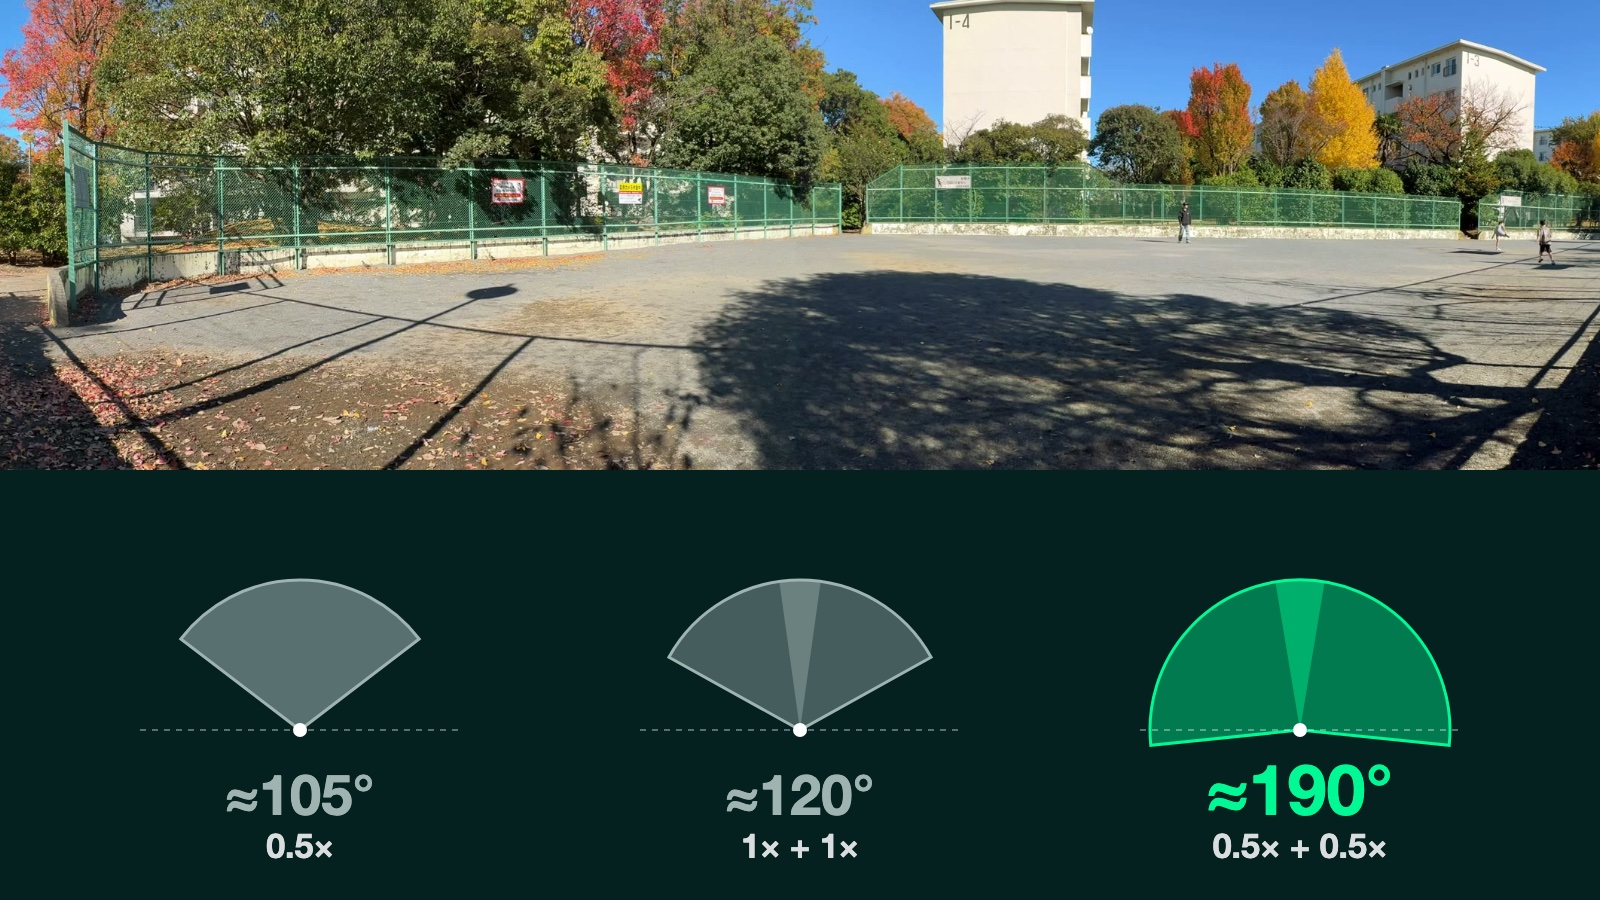
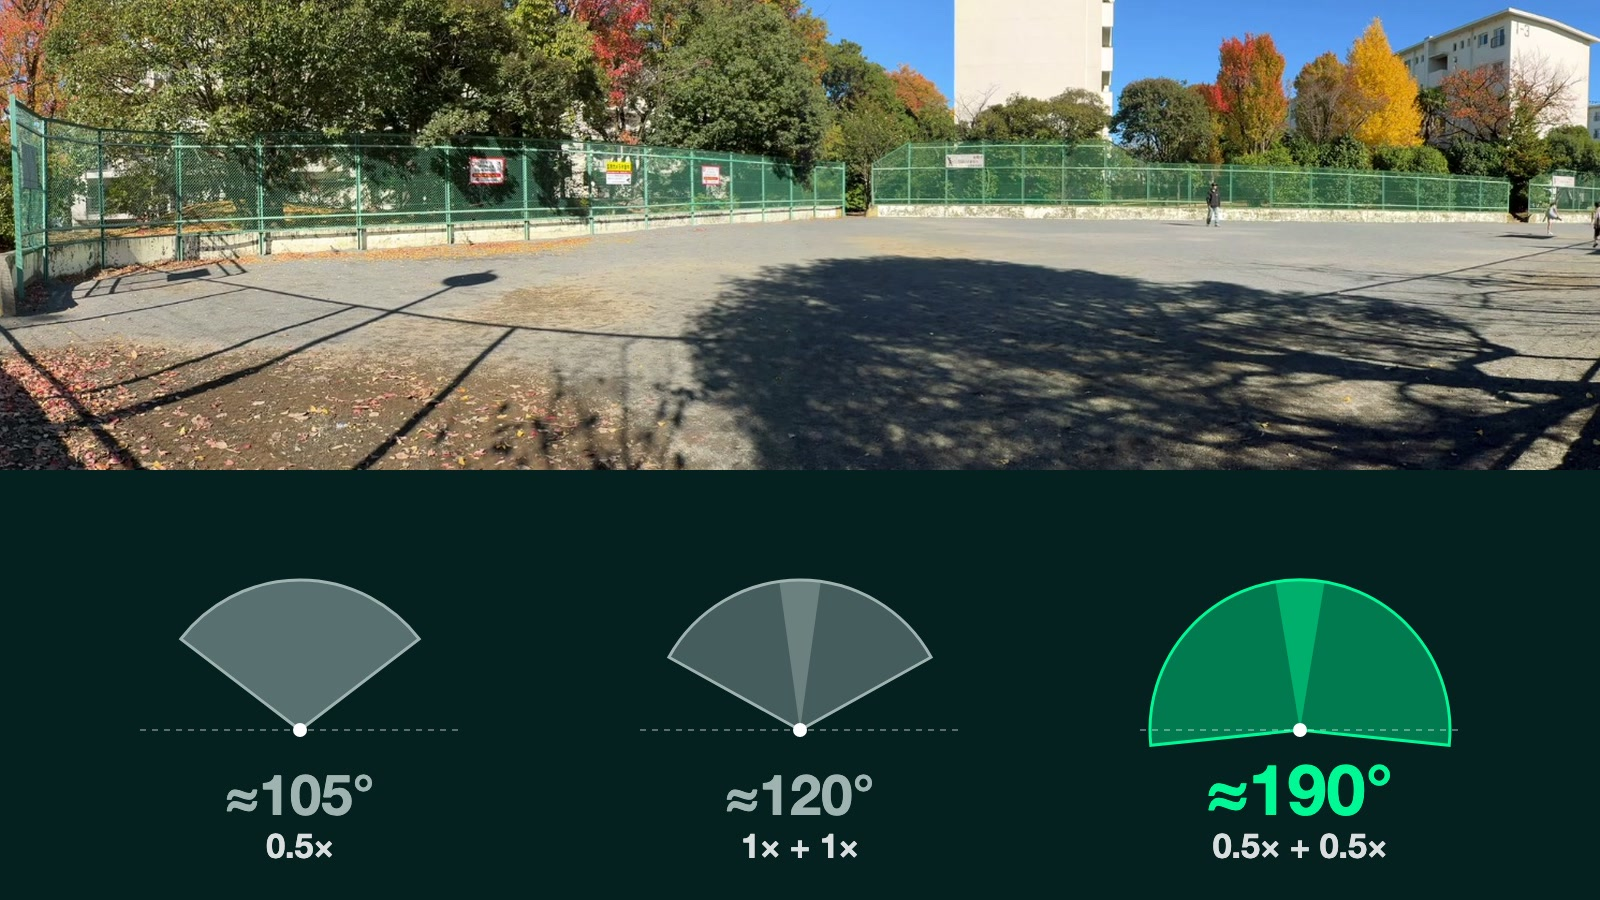
190度の写真: 建物の番号「1-4」が入らないよう上を切る（元の動画の1コマから切り直し、画質は同じ）。説明に「ページ用に縮小」を4言語で
Claude-Session: https://claude.ai/code/session_012nFP3W84HjxJBu1GEZk1Jt

diff --git a/es/blog/ultrawide-190/index.html b/es/blog/ultrawide-190/index.html
@@ -166,7 +166,7 @@ a{color:var(--green)}
   <figure class="hero-img"><img src="/img/ultrawide-190-card.jpg" alt="Una escena de un video panorámico de cerca de 190° grabado con dos iPhone en ultra gran angular, y la comparación entre 105°, 120° y 190°"></figure>
   <div class="prose">
 <p>panovi ahora puede <strong>convertir cerca de 190° en un solo video panorámico con dos iPhone en ultra gran angular</strong>. Mirando al frente, todo desde tu costado derecho hasta tu costado izquierdo — y un poco detrás de ambos — entra en un solo video. El ultra gran angular de un iPhone cubre cerca de 105°, así que es casi el doble de ancho.</p>
-<figure><img src="/img/ultrawide-190.jpg" alt="Una escena de cerca de 190° grabada con dos iPhone en ultra gran angular. En los bordes izquierdo y derecho se ve la reja un poco detrás de los costados de la cámara" loading="lazy"><figcaption>Cerca de 190° con dos iPhone en ultra gran angular. Los bordes izquierdo y derecho quedan un poco detrás de los costados de la cámara (una escena del video guardado)</figcaption></figure>
+<figure><img src="/img/ultrawide-190.jpg" alt="Una escena de cerca de 190° grabada con dos iPhone en ultra gran angular. En los bordes izquierdo y derecho se ve la reja un poco detrás de los costados de la cámara" loading="lazy"><figcaption>Cerca de 190° con dos iPhone en ultra gran angular. Los bordes izquierdo y derecho quedan un poco detrás de los costados de la cámara (una escena del video guardado, reducida para esta página)</figcaption></figure>
 <h2 id="qué-tan-ancho-es">¿Qué tan ancho es?</h2>
 <p>Comparamos cuánto graba cada configuración. Los números se midieron en videos que grabamos y guardamos en nuestras pruebas. Cambian un poco según cómo coloques los iPhone.</p>
 <div class="tbl"><table><thead><tr><th>Configuración</th><th>Ancho horizontal</th></tr></thead><tbody><tr><td>Un iPhone, ultra gran angular (0.5×)</td><td>Cerca de 105°</td></tr><tr><td>Dos iPhone, gran angular (1×)</td><td>Cerca de 120°</td></tr><tr><td>Dos iPhone, ultra gran angular (0.5×)</td><td><strong>Cerca de 190°</strong></td></tr></tbody></table></div>

diff --git a/pt/blog/ultrawide-190/index.html b/pt/blog/ultrawide-190/index.html
@@ -166,7 +166,7 @@ a{color:var(--green)}
   <figure class="hero-img"><img src="/img/ultrawide-190-card.jpg" alt="Uma cena de um vídeo panorâmico de cerca de 190° gravado com dois iPhones na ultra-angular, e a comparação entre 105°, 120° e 190°"></figure>
   <div class="prose">
 <p>O panovi agora consegue <strong>transformar cerca de 190° em um só vídeo panorâmico com dois iPhones na ultra-angular</strong>. Olhando para a frente, tudo do seu lado direito ao seu lado esquerdo — e um pouco atrás dos dois — entra em um só vídeo. A ultra-angular de um iPhone cobre cerca de 105°, então é quase o dobro da largura.</p>
-<figure><img src="/img/ultrawide-190.jpg" alt="Uma cena de cerca de 190° gravada com dois iPhones na ultra-angular. Nas bordas esquerda e direita aparece a grade um pouco atrás dos lados da câmera" loading="lazy"><figcaption>Cerca de 190° com dois iPhones na ultra-angular. As bordas esquerda e direita ficam um pouco atrás dos lados da câmera (uma cena do vídeo salvo)</figcaption></figure>
+<figure><img src="/img/ultrawide-190.jpg" alt="Uma cena de cerca de 190° gravada com dois iPhones na ultra-angular. Nas bordas esquerda e direita aparece a grade um pouco atrás dos lados da câmera" loading="lazy"><figcaption>Cerca de 190° com dois iPhones na ultra-angular. As bordas esquerda e direita ficam um pouco atrás dos lados da câmera (uma cena do vídeo salvo, reduzida para esta página)</figcaption></figure>
 <h2 id="quão-largo-é">Quão largo é?</h2>
 <p>Comparamos o quanto cada configuração grava. Os números foram medidos em vídeos que gravamos e salvamos nos nossos testes. Mudam um pouco conforme a posição dos iPhones.</p>
 <div class="tbl"><table><thead><tr><th>Configuração</th><th>Largura horizontal</th></tr></thead><tbody><tr><td>Um iPhone, ultra-angular (0.5×)</td><td>Cerca de 105°</td></tr><tr><td>Dois iPhones, grande-angular (1×)</td><td>Cerca de 120°</td></tr><tr><td>Dois iPhones, ultra-angular (0.5×)</td><td><strong>Cerca de 190°</strong></td></tr></tbody></table></div>

diff --git a/blog/ultrawide-190/index.html b/blog/ultrawide-190/index.html
@@ -166,7 +166,7 @@ a{color:var(--green)}
   <figure class="hero-img"><img src="/img/ultrawide-190-card.jpg" alt="超広角のiPhone 2台で撮った約190度のパノラマ動画の一場面と、105度・120度・190度の写る広さの比べ"></figure>
   <div class="prose">
 <p>panovi で、<strong>超広角のiPhone 2台を使うと、約190度を1本のパノラマ動画に</strong>できるようになりました。正面を向いたまま、自分の右の真横から左の真横、さらに少し後ろまでが、1本の動画に入ります。iPhone 1台の超広角で写るのは約105度なので、およそ2倍近い広さです。</p>
-<figure><img src="/img/ultrawide-190.jpg" alt="超広角のiPhone 2台で撮った約190度の一場面。左右の端には、自分の真横より少し後ろのフェンスまで写っている" loading="lazy"><figcaption>超広角2台で撮った約190度。左右の端は、自分の真横より少し後ろです（保存した動画の一場面）</figcaption></figure>
+<figure><img src="/img/ultrawide-190.jpg" alt="超広角のiPhone 2台で撮った約190度の一場面。左右の端には、自分の真横より少し後ろのフェンスまで写っている" loading="lazy"><figcaption>超広角2台で撮った約190度。左右の端は、自分の真横より少し後ろです（保存した動画の一場面。ページ用に縮小しています）</figcaption></figure>
 <h2 id="どれくらい広い">どれくらい広い？</h2>
 <p>写る広さを、レンズと台数で比べました。数字は、私たちが試し撮りして保存した動画で測った値です。置き方で少し変わります。</p>
 <div class="tbl"><table><thead><tr><th>撮り方</th><th>横に写る広さ</th></tr></thead><tbody><tr><td>iPhone 1台・超広角（0.5×）</td><td>約105度</td></tr><tr><td>iPhone 2台・広角（1×）</td><td>約120度</td></tr><tr><td>iPhone 2台・超広角（0.5×）</td><td><strong>約190度</strong></td></tr></tbody></table></div>

diff --git a/en/blog/ultrawide-190/index.html b/en/blog/ultrawide-190/index.html
@@ -166,7 +166,7 @@ a{color:var(--green)}
   <figure class="hero-img"><img src="/img/ultrawide-190-card.jpg" alt="A frame from a 190° panoramic video shot with two iPhones set to Ultra Wide, and a comparison of 105°, 120° and 190° coverage"></figure>
   <div class="prose">
 <p>panovi can now <strong>turn about 190° into one panoramic video with two iPhones set to Ultra Wide</strong>. While facing forward, everything from your right side to your left side — and a little behind both — goes into one video. One iPhone&#x27;s Ultra Wide camera covers about 105°, so this is close to twice as wide.</p>
-<figure><img src="/img/ultrawide-190.jpg" alt="A frame of about 190° shot with two iPhones set to Ultra Wide. At the left and right edges you can see the fence a little behind the camera&#x27;s sides" loading="lazy"><figcaption>About 190° with two iPhones on Ultra Wide. The left and right edges are a little behind the camera&#x27;s sides (a frame from the saved video)</figcaption></figure>
+<figure><img src="/img/ultrawide-190.jpg" alt="A frame of about 190° shot with two iPhones set to Ultra Wide. At the left and right edges you can see the fence a little behind the camera&#x27;s sides" loading="lazy"><figcaption>About 190° with two iPhones on Ultra Wide. The left and right edges are a little behind the camera&#x27;s sides (a frame from the saved video, scaled down for this page)</figcaption></figure>
 <h2 id="how-wide-is-it">How wide is it?</h2>
 <p>We compared how much each setup captures. The numbers were measured on videos we shot and saved in our tests. They change a little depending on how you set the iPhones up.</p>
 <div class="tbl"><table><thead><tr><th>Setup</th><th>Horizontal coverage</th></tr></thead><tbody><tr><td>One iPhone, Ultra Wide (0.5×)</td><td>About 105°</td></tr><tr><td>Two iPhones, Wide (1×)</td><td>About 120°</td></tr><tr><td>Two iPhones, Ultra Wide (0.5×)</td><td><strong>About 190°</strong></td></tr></tbody></table></div>

diff --git a/es/index.html b/es/index.html
@@ -333,7 +333,7 @@ h2 em{font-style:normal;color:var(--green)}
   <img src="/img/ultrawide-190.jpg" alt="Una escena de cerca de 190° grabada con dos iPhone en ultra gran angular. En los bordes se ve la reja detrás de los costados de la cámara" loading="lazy">
   <div class="band-over"><div class="col">
     <h3>Cerca de 190° con dos en ultra gran angular</h3>
-    <p>Una escena del video guardado. Los bordes izquierdo y derecho quedan un poco detrás de los costados de la cámara.</p>
+    <p>Una escena del video guardado (reducida para esta página). Los bordes izquierdo y derecho quedan un poco detrás de los costados de la cámara.</p>
   </div></div>
 </div>
 

diff --git a/index.html b/index.html
@@ -348,7 +348,7 @@ h2 em{font-style:normal;color:var(--green)}
   <img src="/img/ultrawide-190.jpg" alt="超広角のiPhone 2台で撮った約190度の一場面。左右の端にはカメラの真横より後ろのフェンスまで写っている" loading="lazy">
   <div class="band-over"><div class="col">
     <h3>超広角2台で、約190度</h3>
-    <p>保存した動画の一場面です。左右の端は、カメラの真横より少し後ろです。</p>
+    <p>保存した動画の一場面です（ページ用に縮小しています）。左右の端は、カメラの真横より少し後ろです。</p>
   </div></div>
 </div>
 

diff --git a/pt/index.html b/pt/index.html
@@ -333,7 +333,7 @@ h2 em{font-style:normal;color:var(--green)}
   <img src="/img/ultrawide-190.jpg" alt="Uma cena de cerca de 190° gravada com dois iPhones na ultra-angular. Nas bordas aparece a grade atrás das laterais da câmera" loading="lazy">
   <div class="band-over"><div class="col">
     <h3>Cerca de 190° com dois na ultra-angular</h3>
-    <p>Uma cena do vídeo salvo. As bordas esquerda e direita ficam um pouco atrás das laterais da câmera.</p>
+    <p>Uma cena do vídeo salvo (reduzida para esta página). As bordas esquerda e direita ficam um pouco atrás das laterais da câmera.</p>
   </div></div>
 </div>
 

diff --git a/en/index.html b/en/index.html
@@ -348,7 +348,7 @@ h2 em{font-style:normal;color:var(--green)}
   <img src="/img/ultrawide-190.jpg" alt="A frame of about 190° shot with two iPhones on Ultra Wide. At the edges you can see the fence behind the camera’s sides" loading="lazy">
   <div class="band-over"><div class="col">
     <h3>About 190° with two on Ultra Wide</h3>
-    <p>A frame from the saved video. The left and right edges are a little behind the camera’s sides.</p>
+    <p>A frame from the saved video (scaled down for this page). The left and right edges are a little behind the camera’s sides.</p>
   </div></div>
 </div>
 

diff --git a/tools/panovi_l10n/build.py b/tools/panovi_l10n/build.py
@@ -190,9 +190,9 @@ MAIN_TEXT = [
     T("<h3>About 190° with two on Ultra Wide</h3>",
       "<h3>Cerca de 190° com dois na ultra-angular</h3>",
       "<h3>Cerca de 190° con dos en ultra gran angular</h3>"),
-    T("<p>A frame from the saved video. The left and right edges are a little behind the camera’s sides.</p>",
-      "<p>Uma cena do vídeo salvo. As bordas esquerda e direita ficam um pouco atrás das laterais da câmera.</p>",
-      "<p>Una escena del video guardado. Los bordes izquierdo y derecho quedan un poco detrás de los costados de la cámara.</p>"),
+    T("<p>A frame from the saved video (scaled down for this page). The left and right edges are a little behind the camera’s sides.</p>",
+      "<p>Uma cena do vídeo salvo (reduzida para esta página). As bordas esquerda e direita ficam um pouco atrás das laterais da câmera.</p>",
+      "<p>Una escena del video guardado (reducida para esta página). Los bordes izquierdo y derecho quedan un poco detrás de los costados de la cámara.</p>"),
     # 01
     T('<span class="eyebrow">01 — The whole scene, and your kid</span>',
       '<span class="eyebrow">01 — A cena inteira e o seu filho</span>',

diff --git a/content/blog/ultrawide-190/es.md b/content/blog/ultrawide-190/es.md
@@ -7,7 +7,7 @@ keywords: video panorámico 190 grados, dos iPhone ultra gran angular, video pan
 
 panovi ahora puede **convertir cerca de 190° en un solo video panorámico con dos iPhone en ultra gran angular**. Mirando al frente, todo desde tu costado derecho hasta tu costado izquierdo — y un poco detrás de ambos — entra en un solo video. El ultra gran angular de un iPhone cubre cerca de 105°, así que es casi el doble de ancho.
 
-![Una escena de cerca de 190° grabada con dos iPhone en ultra gran angular. En los bordes izquierdo y derecho se ve la reja un poco detrás de los costados de la cámara](/img/ultrawide-190.jpg "Cerca de 190° con dos iPhone en ultra gran angular. Los bordes izquierdo y derecho quedan un poco detrás de los costados de la cámara (una escena del video guardado)")
+![Una escena de cerca de 190° grabada con dos iPhone en ultra gran angular. En los bordes izquierdo y derecho se ve la reja un poco detrás de los costados de la cámara](/img/ultrawide-190.jpg "Cerca de 190° con dos iPhone en ultra gran angular. Los bordes izquierdo y derecho quedan un poco detrás de los costados de la cámara (una escena del video guardado, reducida para esta página)")
 
 ## ¿Qué tan ancho es?
 

diff --git a/content/blog/ultrawide-190/pt.md b/content/blog/ultrawide-190/pt.md
@@ -7,7 +7,7 @@ keywords: vídeo panorâmico 190 graus, dois iPhones ultra-angular, vídeo panor
 
 O panovi agora consegue **transformar cerca de 190° em um só vídeo panorâmico com dois iPhones na ultra-angular**. Olhando para a frente, tudo do seu lado direito ao seu lado esquerdo — e um pouco atrás dos dois — entra em um só vídeo. A ultra-angular de um iPhone cobre cerca de 105°, então é quase o dobro da largura.
 
-![Uma cena de cerca de 190° gravada com dois iPhones na ultra-angular. Nas bordas esquerda e direita aparece a grade um pouco atrás dos lados da câmera](/img/ultrawide-190.jpg "Cerca de 190° com dois iPhones na ultra-angular. As bordas esquerda e direita ficam um pouco atrás dos lados da câmera (uma cena do vídeo salvo)")
+![Uma cena de cerca de 190° gravada com dois iPhones na ultra-angular. Nas bordas esquerda e direita aparece a grade um pouco atrás dos lados da câmera](/img/ultrawide-190.jpg "Cerca de 190° com dois iPhones na ultra-angular. As bordas esquerda e direita ficam um pouco atrás dos lados da câmera (uma cena do vídeo salvo, reduzida para esta página)")
 
 ## Quão largo é?
 
